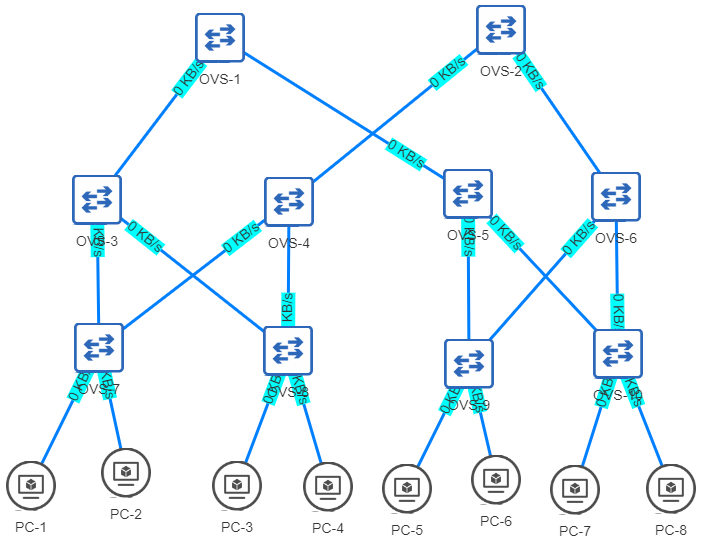
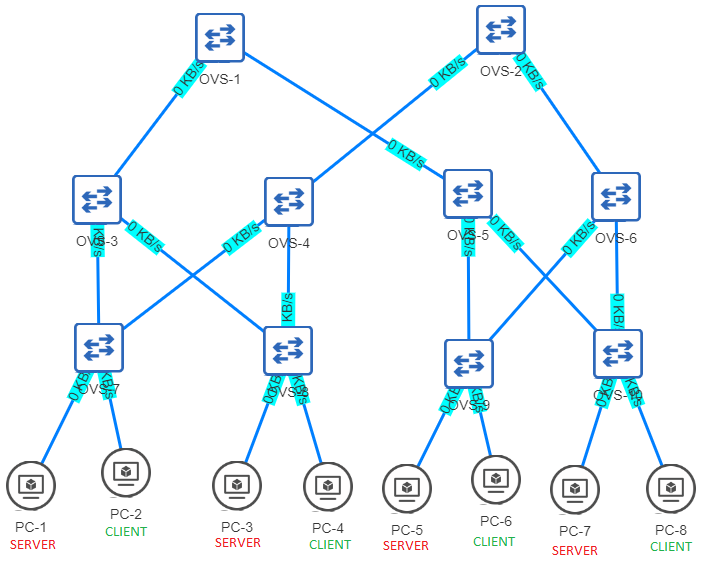
tambah keterangan dan ubah ke 2MB/s

diff --git a/views/test.html b/views/test.html
@@ -56,7 +56,7 @@
         <hr style='margin:0.5em 0;border: 1px solid black'>
         Menu ini digunakan untuk membuat traffic pada simulasi SDN.
         Traffic dibuat dengan cara menjalankan perintah iperf dari client ke iperf server.
-        Perintah ini akan berjalan selama 2 menit. Nilai maksimal throughput adalah 5 Megabyte per detik.
+        Perintah ini akan berjalan selama 2 menit. Nilai maksimal throughput adalah 2 Megabyte per detik.
         Hasil dari traffic generator ini dapat dilihat pada menu Topologi dan Grafik setelah 10 detik.
         <br>
         <br> Berikut ini Topologi Jaringan yang digunakan :
@@ -71,6 +71,9 @@
         atau buat traffic lagi dengan perangkat asal dan tujuan berbeda.  
         <br>- Perangkat di simulasi GNS3 bandwidthnya tidak stabil, sehingga ada 
         kemungkinan throughput yang dihasilkan lebih rendah dari yang dimasukkan disini.
+        <br>
+        <br>PC yang menjadi iperf client : PC-2, PC-4, PC-6, dan PC-8
+        <br>PC yang menjadi iperf server : PC-1, PC-3, PC-5, dan PC-7
         <br>
         <br>Atur traffic generator disini :
         <div class="row">
@@ -104,7 +107,7 @@
                 Masukkan nilai throughput
             </div>
             <div class="col-md-3">
-                <input type="number" min="1" max="5000" step="100" name="throughput" id="throughput" style="width:100px"> KB/s
+                <input type="number" min="1" max="2000" step="100" name="throughput" id="throughput" style="width:100px"> KB/s
             </div>
         </div>
         <button type="button" class="btn btn-primary" onclick="buat_traffic()">Buat Traffic</button>

diff --git a/views/js/topo-app.js b/views/js/topo-app.js
@@ -41,7 +41,7 @@ var arrows = false;
 //false untuk menggunakan data througput (kbps) sebagai penentu warna link
 //atur batas max KB/s jika util=false 
 var util = false;
-var max_kbps = 5000;
+var max_kbps = 2000;
 
 function sekarang() {
   let today = new Date();
@@ -369,6 +369,7 @@ $(function () {
     $('.atombol').remove();
     let html =
       '<div class="kotak">' + "&nbsp;Keterangan :" +
+      '<br> Bandwidth = 16mbps'
       '<br><div class="kotak-warna" style="background-color: #FF0000;"></div>' +
       '<div class="kotak-teks">80 - 100 %</div>' +
       '<br><div class="kotak-warna" style="background-color: #FF8000;"></div>' +

diff --git a/views/js/test-app.js b/views/js/test-app.js
@@ -10,8 +10,8 @@ function buat_traffic() {
     let from = parseInt($("#asal").val())
     let to = parseInt($("#tujuan").val())
     let bw = parseInt($("#throughput").val())
-    if (isNaN(bw) || bw == 0 || bw > 5000) {
-        bw = 5000
+    if (isNaN(bw) || bw == 0 || bw > 2000) {
+        bw = 2000
     }
     let data = {
         asal: from,
